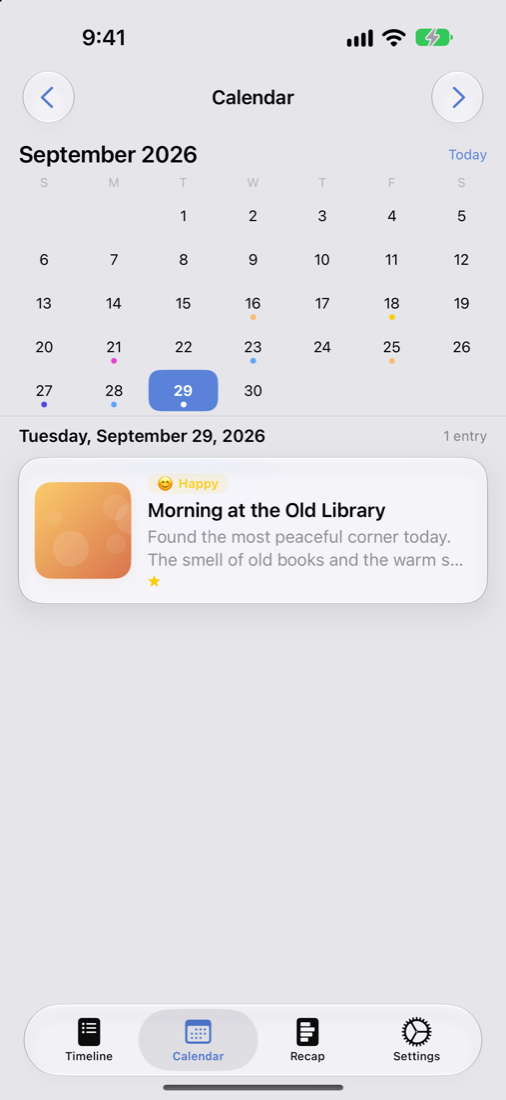
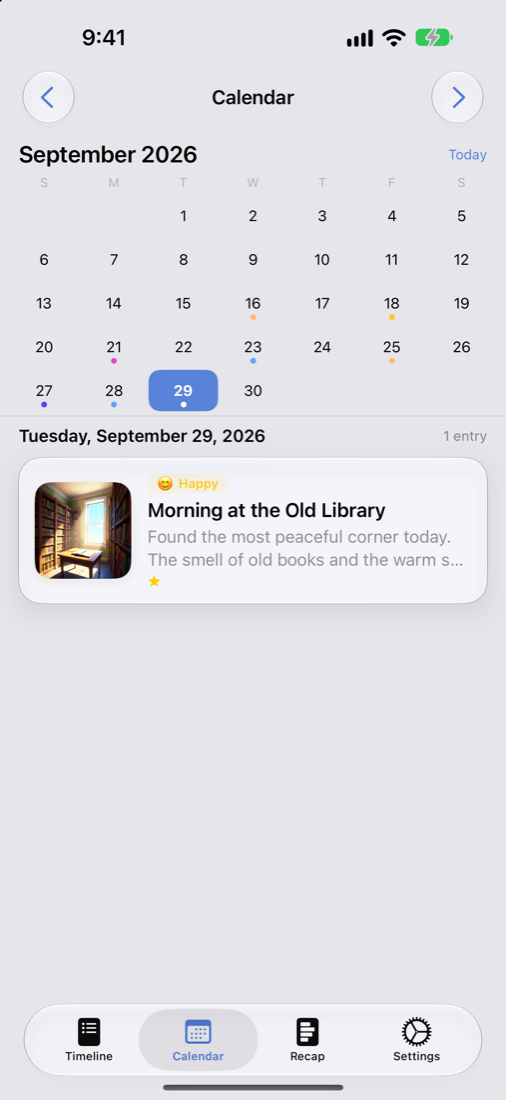
Real illustrations everywhere on the journal site
The eight Image Playground exports are in, so the hero demo now finishes
the thing it was only describing, and the device fan shows the timeline
as it actually looks with artwork rather than the seeder's gradients.

Artwork is JPEG, not PNG — these are photographs and renders, and PNG
was costing about three times the bytes for no visible gain.

Changed region(s): [[0.0593, 0.4327, 0.2668, 0.5255]]

diff --git a/journal/index.html b/journal/index.html
@@ -296,14 +296,14 @@
 
 <script type="application/json" id="demo-entries">
 [
- {"title":"Morning at the Old Library","body":"Found the most peaceful corner today. The smell of old books and the warm sun on my notebook made an ordinary Tuesday feel like something worth keeping.","mood":"Happy","date":"Today","style":"Illustration","color":"#E0A500","art":"/journal/img/art/01.png"},
- {"title":"First Frost","body":"Walked out to a world edged in white. Everything looked drawn in silver pencil — the fence, the last of the tomatoes, my own breath.","mood":"Calm","date":"Yesterday","style":"Sketch","color":"#2E8B9E","art":"/journal/img/art/02.png"},
- {"title":"The Long Way Home","body":"Missed my stop on purpose. Sometimes the city at dusk deserves an extra twenty minutes — all those lit windows, each one somebody's whole evening.","mood":"Reflective","date":"2 days ago","style":"Animation","color":"#7A5AD8","art":"/journal/img/art/03.png"},
- {"title":"Kitchen Experiment","body":"Attempted the bread again. Third time is apparently not the charm, but it smelled incredible and the crust was almost right.","mood":"Grateful","date":"4 days ago","style":"Illustration","color":"#D98324","art":"/journal/img/art/04.png"},
- {"title":"Rain Against the Glass","body":"Stayed in and let the afternoon go. There's a particular comfort in weather that gives you permission to do nothing at all.","mood":"Calm","date":"6 days ago","style":"Sketch","color":"#2E8B9E","art":"/journal/img/art/05.png"},
- {"title":"Something Worth Saying","body":"Finally had the conversation I'd been putting off for a month. It went nothing like I rehearsed and much better than I feared.","mood":"Excited","date":"8 days ago","style":"Illustration","color":"#D6437B","art":"/journal/img/art/06.png"},
- {"title":"Trailhead at Sunrise","body":"Up before the light to beat the heat. The valley filled with mist like something poured into it, and for ten minutes I had the whole ridge to myself.","mood":"Happy","date":"11 days ago","style":"Illustration","color":"#E0A500","art":"/journal/img/art/07.png"},
- {"title":"Quiet Sunday","body":"Nothing happened today and that was the entire point. Coffee, a long book, the cat asleep on the warm part of the floor.","mood":"Grateful","date":"13 days ago","style":"Illustration","color":"#D98324","art":"/journal/img/art/08.png"}
+ {"title":"Morning at the Old Library","body":"Found the most peaceful corner today. The smell of old books and the warm sun on my notebook made an ordinary Tuesday feel like something worth keeping.","mood":"Happy","date":"Today","style":"Illustration","color":"#E0A500","art":"/journal/img/art/01.jpg"},
+ {"title":"First Frost","body":"Walked out to a world edged in white. Everything looked drawn in silver pencil — the fence, the last of the tomatoes, my own breath.","mood":"Calm","date":"Yesterday","style":"Sketch","color":"#2E8B9E","art":"/journal/img/art/02.jpg"},
+ {"title":"The Long Way Home","body":"Missed my stop on purpose. Sometimes the city at dusk deserves an extra twenty minutes — all those lit windows, each one somebody's whole evening.","mood":"Reflective","date":"2 days ago","style":"Animation","color":"#7A5AD8","art":"/journal/img/art/03.jpg"},
+ {"title":"Kitchen Experiment","body":"Attempted the bread again. Third time is apparently not the charm, but it smelled incredible and the crust was almost right.","mood":"Grateful","date":"4 days ago","style":"Illustration","color":"#D98324","art":"/journal/img/art/04.jpg"},
+ {"title":"Rain Against the Glass","body":"Stayed in and let the afternoon go. There's a particular comfort in weather that gives you permission to do nothing at all.","mood":"Calm","date":"6 days ago","style":"Sketch","color":"#2E8B9E","art":"/journal/img/art/05.jpg"},
+ {"title":"Something Worth Saying","body":"Finally had the conversation I'd been putting off for a month. It went nothing like I rehearsed and much better than I feared.","mood":"Excited","date":"8 days ago","style":"Illustration","color":"#D6437B","art":"/journal/img/art/06.jpg"},
+ {"title":"Trailhead at Sunrise","body":"Up before the light to beat the heat. The valley filled with mist like something poured into it, and for ten minutes I had the whole ridge to myself.","mood":"Happy","date":"11 days ago","style":"Illustration","color":"#E0A500","art":"/journal/img/art/07.jpg"},
+ {"title":"Quiet Sunday","body":"Nothing happened today and that was the entire point. Coffee, a long book, the cat asleep on the warm part of the floor.","mood":"Grateful","date":"13 days ago","style":"Illustration","color":"#D98324","art":"/journal/img/art/08.jpg"}
 ]
 </script>
 <script src="/journal/assets/journal.js" defer></script>

diff --git a/journal/assets/journal.css b/journal/assets/journal.css
@@ -422,8 +422,8 @@ footer{border-top:1px solid var(--rule);padding-block:3rem;font-size:.85rem;colo
 .demo-art img{position:absolute;inset:0;width:100%;height:100%;object-fit:cover;
   opacity:0;transition:opacity .9s ease}
 .demo-art img.shown{opacity:1}
-/* Shown until a real illustration is dropped in — the app's own empty state,
-   not a stand-in pretending to be generated art. */
+/* The app's own pre-generate state. Shown while the illustration loads, and
+   left in place for any entry that has no artwork yet. */
 .demo-pending{display:flex;flex-direction:column;align-items:center;gap:.55rem;
   color:var(--muted);text-align:center;padding:1rem;transition:opacity .5s ease}
 .demo-art.has-art .demo-pending{opacity:0}
